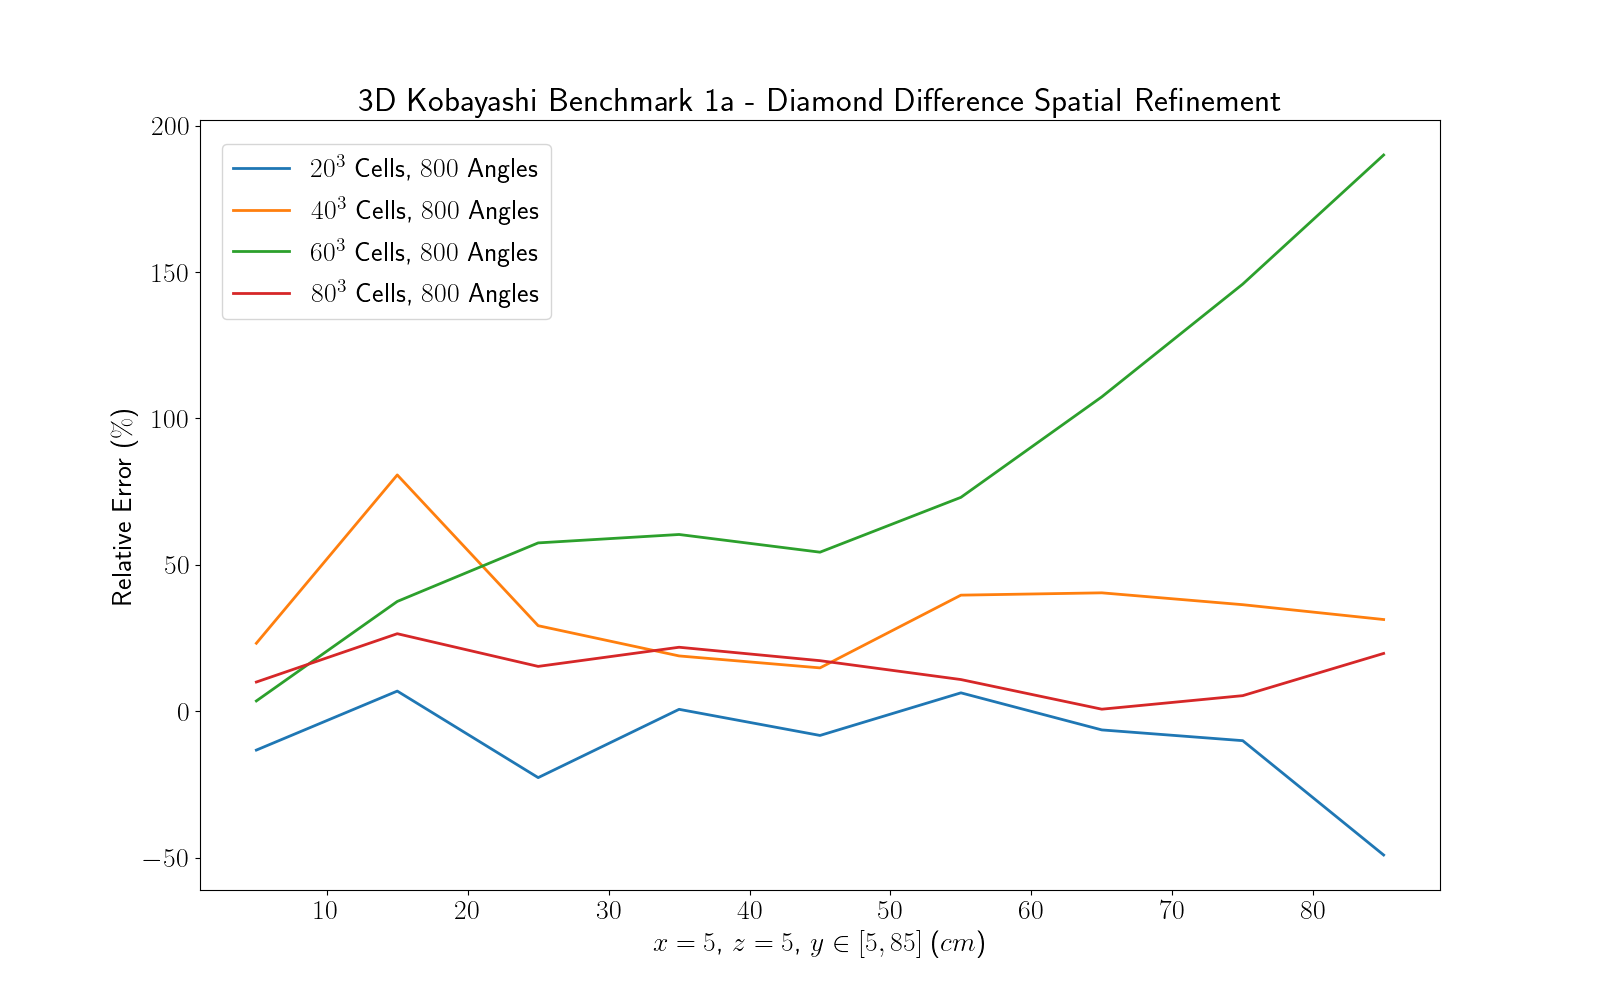
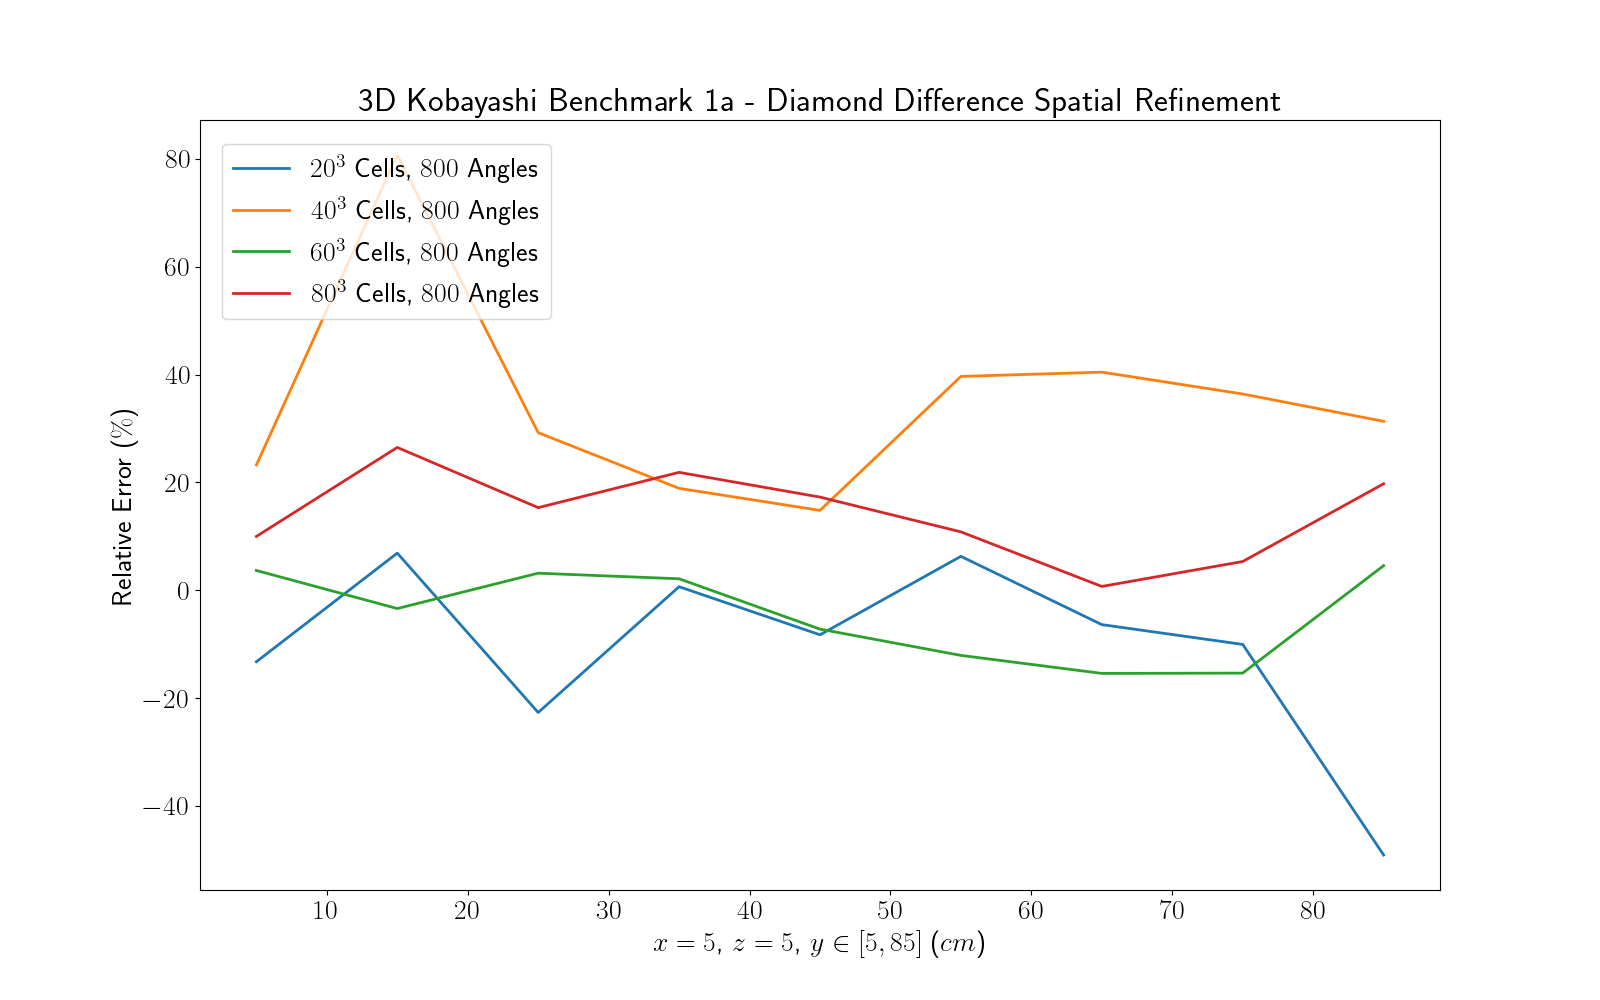
Fixed diamond differencing spatial error results.

diff --git a/results/line_plot_results.py b/results/line_plot_results.py
@@ -22,7 +22,7 @@ kobayashi_1a_bench = np.array([8.29260, 1.87028, 0.713986, 0.384685, 0.253984,  
 # Diamond differences.
 kobayashi_1a_dd_angle_10_space_1 = np.array([7.19185, 1.99889, 0.55205,  0.387174, 0.23297,  0.145836, 0.0436164, 0.01428,   0.00278381])
 kobayashi_1a_dd_angle_10_space_2 = np.array([10.2179, 3.37977, 0.92256,  0.457335, 0.291582, 0.191621, 0.0654322, 0.0216539, 0.00718362])
-kobayashi_1a_dd_angle_10_space_3 = np.array([8.58388, 2.57154, 1.12449,  0.616915, 0.391955, 0.237463, 0.0966251, 0.0390392, 0.0158635])
+kobayashi_1a_dd_angle_10_space_3 = np.array([8.59579, 1.8066,  0.736503, 0.392815, 0.23564,  0.120626, 0.0394013, 0.0134349, 0.00571944])
 kobayashi_1a_dd_angle_10_space_4 = np.array([9.11955, 2.36546, 0.823292, 0.468751, 0.297835, 0.152063, 0.0469145, 0.016721,  0.00655023])
 
 kobayashi_1a_dd_angle_2_space_4  = np.array([9.37995, 2.60431, 0.828742, 0.299079, 0.0748675, 0.0243906, 0.00789227, 0.00335086, 0.00210399])
